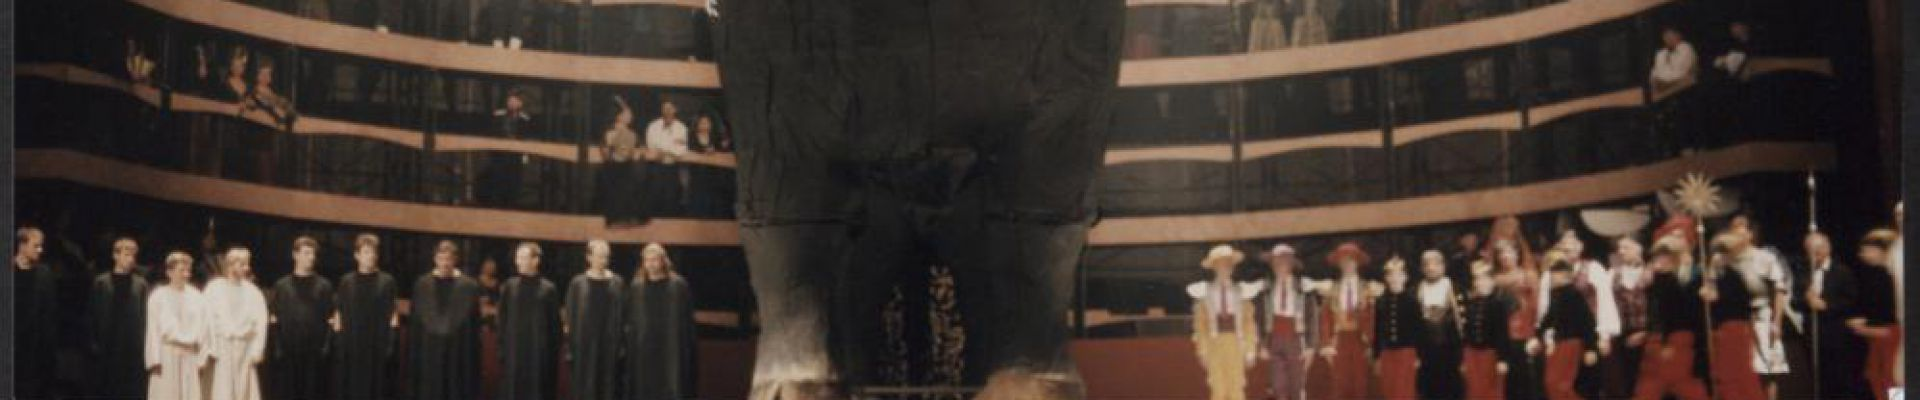
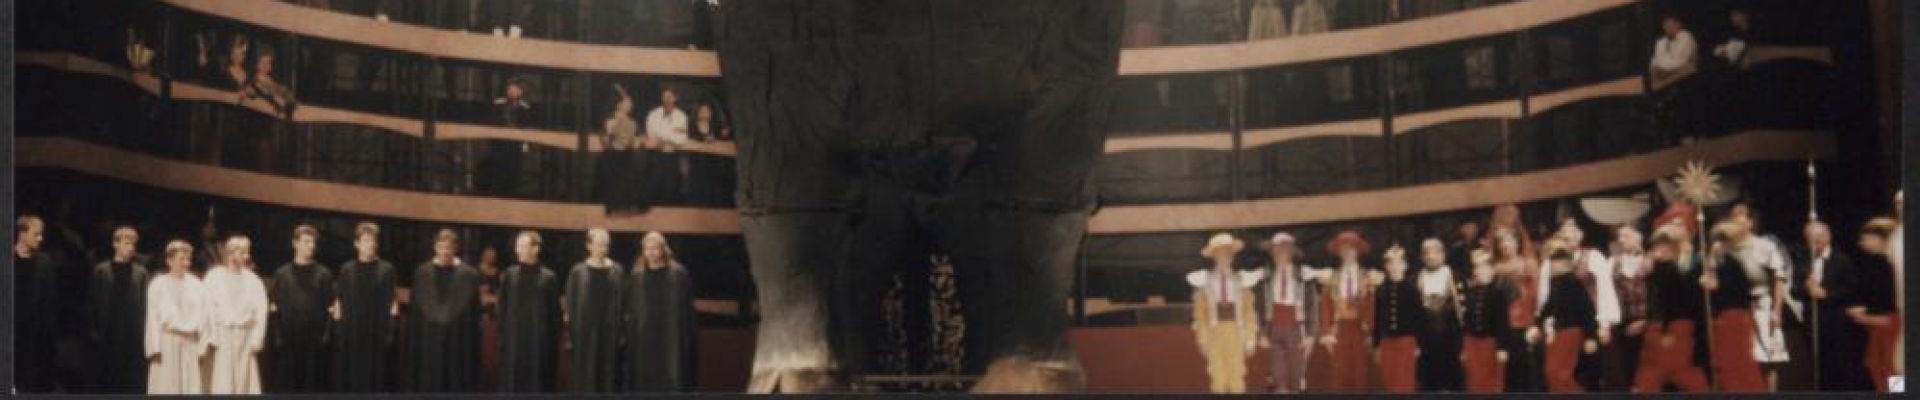
poprawiłem wyświetlanie banera dla przedstawień i urządzeń oraz dodałem pasek nawigacyjny dla strony urządzenie

diff --git a/themes/napedowcy-tw/src/assets/css/modules/_site-performance.css b/themes/napedowcy-tw/src/assets/css/modules/_site-performance.css
@@ -3,7 +3,24 @@
   background-size: 100% 100%;
   background-repeat: no-repeat;
   z-index: 2;
-  
+  .post-nav-links{
+    padding: 5px 0;
+    text-indent: 0;
+    font-size: 1rem;
+    a{
+      padding: 3px 5px;
+       color: $mainDark;
+       &:hover{
+         background-color: $mainOrange;
+         color: $mainWhite;
+       }
+    }
+   span{
+    padding: 3px 5px;
+     background-color: $mainOrange;
+     color: $mainWhite;
+   }
+  }
   @mixin atLarge {
     padding: 60px 20px;
   }
@@ -12,7 +29,7 @@
     flex-direction: column;
     background-color: $mainWhite;
     align-items: center;
-    padding: 60px 10px;
+    padding: 40px 10px;
     @mixin atSmall {
       max-width: 640px;
     }
@@ -25,7 +42,7 @@
       margin: 0 auto;
       max-width: 1200px;
 
-      padding: 100px 10px;
+      padding: 60px 10px;
     }
   }
   &__main-content {
@@ -51,7 +68,7 @@
     transform: translateX(-50%);
     background-color: $mainOrangeDark;
     box-shadow: 10px 8px 8px -1px rgba($mainDark, 0.87);
-    margin-top: -102px;
+    margin-top: -82px;
     text-align: center;
     p {
       padding: 10px 20px;
@@ -96,7 +113,7 @@
     }
     @mixin atLarge {
       flex-direction: row;
-      margin-top: -130px;
+      margin-top: -90px;
       
       p {
         padding: 15px 40px;
@@ -148,6 +165,7 @@
     display: flex;
     flex-direction: column;
     align-items: center;
+    padding: 40px 0 20px 0;
     div {
       width: 60%;
     }
@@ -212,24 +230,41 @@
     }
   }
   &__text-content {
-    h3 {
-      margin: 40px 0;
+    margin-top: 40px;
+    h1, h2, h3, h3, h4, h5, h6 {
+      margin: 30px 0;
       font-size: 1.4rem;
-      text-align: center;
       font-weight: 400;
     }
+    h1, h2 {
+      font-size: 1.8rem;
+    }
     p {
+      text-indent: 3rem;
       font-size: 1rem;
       text-align: justify;
       line-height: 1.4rem;
     }
+    img{
+      margin: 10px 0;
+    }
     @mixin atMedium {
-      h3 {
+      margin-top: 0;
+      h1, h2, h3, h3, h4, h5, h6 {
+        margin: 50px 0;
         font-size: 1.6rem;
       }
+      h1, h2 {
+        font-size: 2rem;
+      }
       p {
+        margin: 10px 0;
+        text-indent: 4rem;
         font-size: 1.2rem;
         line-height: 1.8rem;
+      }
+      img{
+        margin: 30px 0;
       }
     }
   }

diff --git a/themes/napedowcy-tw/template-parts/performance-before.php b/themes/napedowcy-tw/template-parts/performance-before.php
@@ -4,50 +4,56 @@
         <table>
             <tr>
                 <td>1.</td>
-                <th>8.70</th>
+                <th><?php if(get_field('light_ramp_1')) the_field('light_ramp_1'); else echo '8.70'; ?></th>
             </tr>
             <tr>
                 <td>2.</td>
-                <th>14.00</th>
+                <th><?php if(get_field('light_ramp_2')) the_field('light_ramp_2'); else echo '14.00'; ?></th>
             </tr>
             <tr>
                 <td>3.</td>
-                <th>15.30</th>
+                <th><?php if(get_field('light_ramp_3')) the_field('light_ramp_3'); else echo '14.00'; ?></th>
             </tr>
             <tr>
                 <td>4.</td>
-                <th>17.80</th>
+                <th><?php if(get_field('light_ramp_4')) the_field('light_ramp_4'); else echo '14.00'; ?></th>
             </tr>
             <tr>
                 <td>5.</td>
-                <th>KG</th>
+                <th><?php if(get_field('light_ramp_5')) the_field('light_ramp_5'); else echo '14.00'; ?></th>
             </tr>
             <tr>
                 <td>6.</td>
-                <th>17.30</th>
+                <th><?php if(get_field('light_ramp_6')) the_field('light_ramp_6'); else echo '14.00'; ?></th>
             </tr>
             <tr>
                 <td>7.</td>
-                <th>KG</th>
+                <th><?php if(get_field('light_ramp_7')) the_field('light_ramp_7'); else echo '14.00'; ?></th>
             </tr>
             <tr>
                 <td>8.</td>
-                <th>KG</th>
+                <th><?php if(get_field('light_ramp_8')) the_field('light_ramp_8'); else echo '14.00'; ?></th>
             </tr>
         </table>
     </div>
     <div>
         <h3>Opis spektaklu</h3>
-        <p>Czas przedstawienia: <b>3h</b></p>
-        <p>19.00 - 22.00</p>
-        <p>Przygotowanie: <b>4 osoby</b></p>
-        <p>Obsługa: <b>4 osoby</b></p>
-        <p>Rozbiórka: <b>4 osoby</b></p>
+        <p>Czas przedstawienia:
+            <b><?php if(get_field('time_performance')) the_field('time_performance'); else echo '2.5 h'; ?>
+            </b></p>
+        <p><?php if(get_field('start_end_performance')) the_field('start_end_performance'); else echo '19.00 : 21.30';  ?>
+        </p>
+        <p>Przygotowanie:
+            <b><?php if(get_field('people_need_prepare')) the_field('people_need_prepare'); else echo '4 osoby';  ?></b>
+        </p>
+        <p>Obsługa:
+            <b><?php if(get_field('people_need_hendle')) the_field('people_need_hendle'); else echo '4 osoby';  ?></b>
+        </p>
+        <p>Rozbiórka:
+            <b><?php if(get_field('people_need_demolich')) the_field('people_need_demolich'); else echo '4 osoby';  ?></b>
+        </p>
     </div>
 </div>
 <div class="site-performance__text-content" data-performanceBefore>
-    <h3><?php echo get_field_object('before_performance')['label'] ?></h3>
-    <p>
-        <?php the_field('before_performance'); ?>
-    </p>
+
 </div>

diff --git a/themes/napedowcy-tw/single-device.php b/themes/napedowcy-tw/single-device.php
@@ -2,52 +2,39 @@
 
 while (have_posts()) {
   the_post();
-  pageBanner(array('device-page' => true));
+  pageBanner(array(
+    'device-page' => true,
+    'photo' => get_field('device_banner_background_image')['sizes']['banner'],
+    'title' => get_field('device_name')
+  ));
   $theParent = wp_get_post_parent_id(get_the_ID());
 ?>
 
 
 
 
-  <div class="subpage-section" style="background-image: url(<?php echo get_theme_file_uri('/assets/images/kurtyna--small.jpg') ?>);">
-    <div class="subpage-section__container wrapper">
-      <div class="subpage-section__main-content">
+<div class="site-performance"
+    style="background-image: url(<?php echo get_theme_file_uri('/dist/assets/images/kurtyna--small.jpg') ?>);">
 
-        <div class="subpage-section__links-content">
-          <?php
-          $testArray = get_pages(array(
-            'child_of' => get_the_ID()
-          ));
+    <div class="site-performance__container wrapper">
+        <div class="site-performance__main-content">
+            <div class="site-performance__top-content">
+                <h2>
 
-          if ($theParent or $testArray) { ?>
-            <div class="page-links">
-              <h2 class="page-links__title">
-                <a href="<?php echo get_permalink($theParent) ?>"><?php echo get_the_title($theParent); ?></a>
-              </h2>
-              <ul>
+                    <a href="<?php  echo site_url( '/devices') ?>">Urządzenia</a>
 
-                <?php
-                if ($theParent) {
-                  $findChildrenOf = $theParent;
-                } else {
-                  $findChildrenOf = get_the_ID();
-                }
-                wp_list_pages(array(
-                  'title_li' => NULL,
-                  'child_of' => $findChildrenOf,
-                  'sort_column' => 'menu_order'
-                ));
-                ?>
-              </ul>
+
+                </h2>
+                <p><?php the_title() ?></p>
             </div>
-          <?php } ?>
+
+            <div class="site-performance__text-content" data-performanceAtThe>
+                <?php the_content();
+                wp_link_pages(); ?>
+            </div>
         </div>
-        <div class="subpage-section__text-content">
-          <?php the_content() ?>
-        </div>
-      </div>
     </div>
-  </div>
+</div>
 
 
 

diff --git a/themes/napedowcy-tw/functions.php b/themes/napedowcy-tw/functions.php
@@ -12,7 +12,9 @@ function pageBanner($args = NULL)
         if (get_field('banner_background_image')) {
             if ($args['home-page']) $args['photo'] = get_field('banner_background_image')['sizes']['banner_home_page'];
             else $args['photo'] = get_field('banner_background_image')['sizes']['banner'];
-        } else {
+        } 
+        
+        else {
             $args['photo'] = get_field('default_img_banner')['sizes']['banner'];
         }
     }
@@ -133,7 +135,8 @@ function pageSlider($args = NULL)
         if (get_field('banner_background_image')) {
             if ($args['home-page']) $args['photo'] = get_field('banner_background_image')['sizes']['slider_home_page'];
             else $args['photo'] = get_field('banner_background_image')['sizes']['slider_home_page'];
-        } else {
+        } 
+        else {
             $args['photo'] = get_theme_file_uri('/dist/assets/images/stage--high.jpg');
         }
     }

diff --git a/themes/napedowcy-tw/page-performances.php b/themes/napedowcy-tw/page-performances.php
@@ -3,10 +3,10 @@
 while (have_posts()) {
     the_post();
     pageBanner(array(
-        'photo'=> get_field('default_img_banner')['sizes']['banner']));
+        'photo'=> get_field('performances_banner_image')['sizes']['banner']));
        
 ?>
-<div class="main-section" style="background-image: url(<?php echo get_field('default_img_main')['url'] ?>);">
+<div class="main-section" style="background-image: url(<?php echo get_field('main_img')['url'] ?>);">
     <div class="main-section__container wrapper">
 
         <div class="main-section__article main-section--border">

diff --git a/themes/napedowcy-tw/single-performance.php b/themes/napedowcy-tw/single-performance.php
@@ -4,7 +4,8 @@ while (have_posts()) {
   the_post();
   pageBanner(array(
     'performance-page' => true,
-    'title'=> get_the_title()
+    'title'=> get_the_title(),
+    'photo' => get_field('performance_banner_background_image')['sizes']['banner']
   ));
   $theParent = wp_get_post_parent_id(get_the_ID());
 ?>
